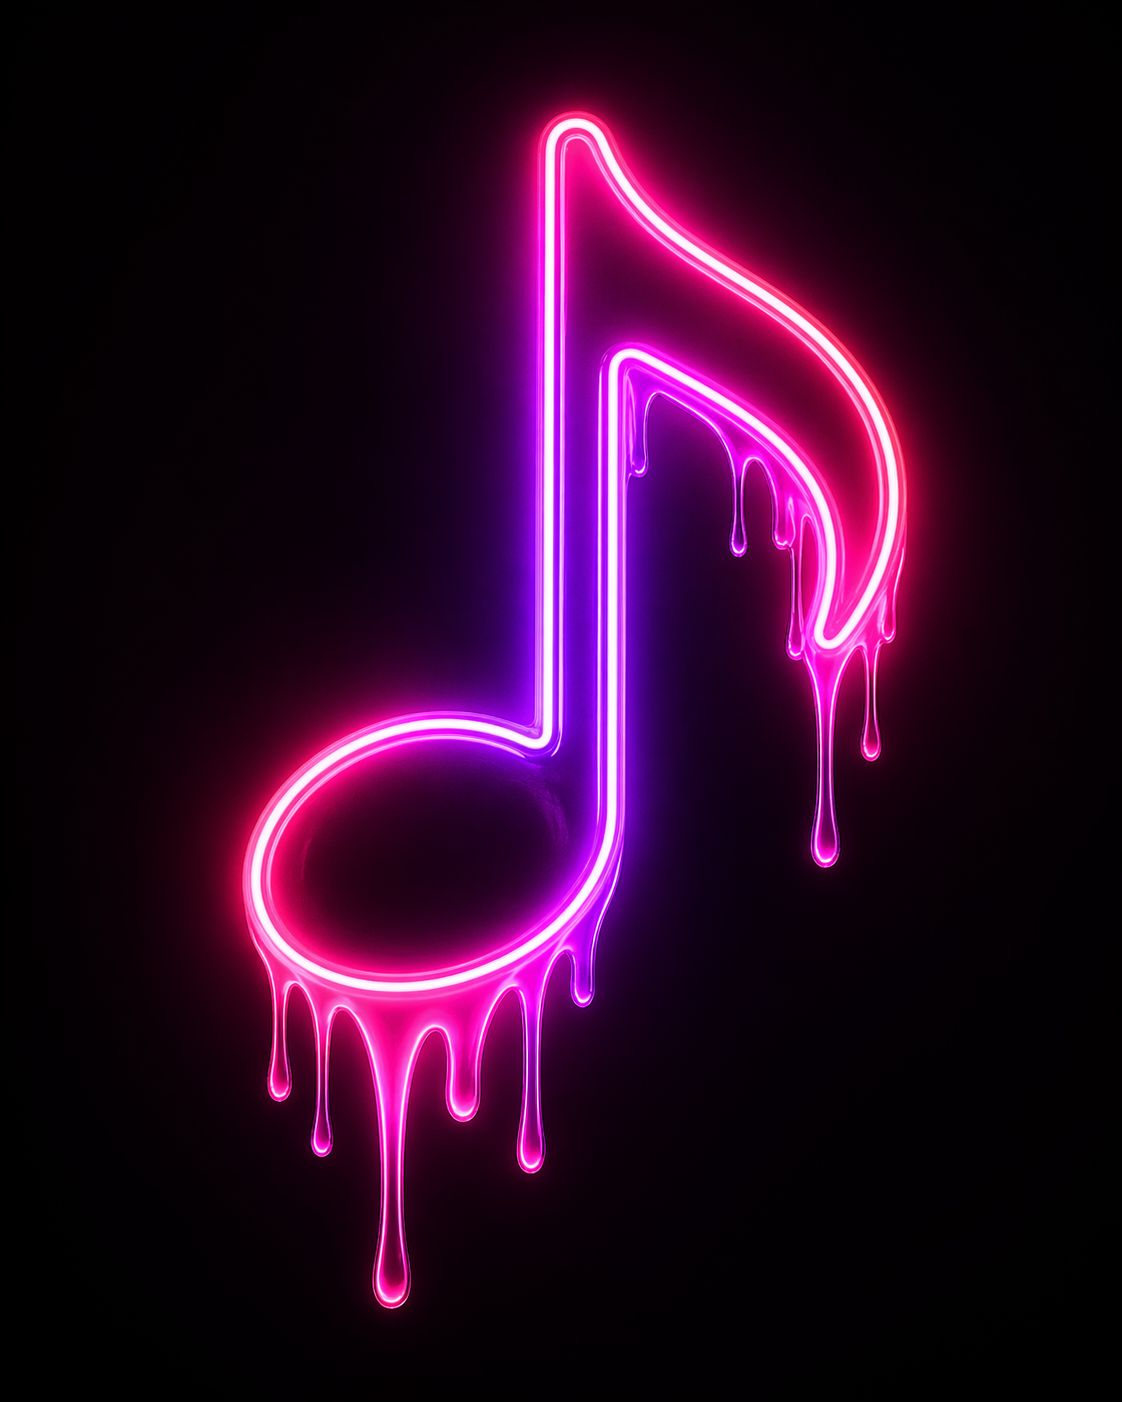
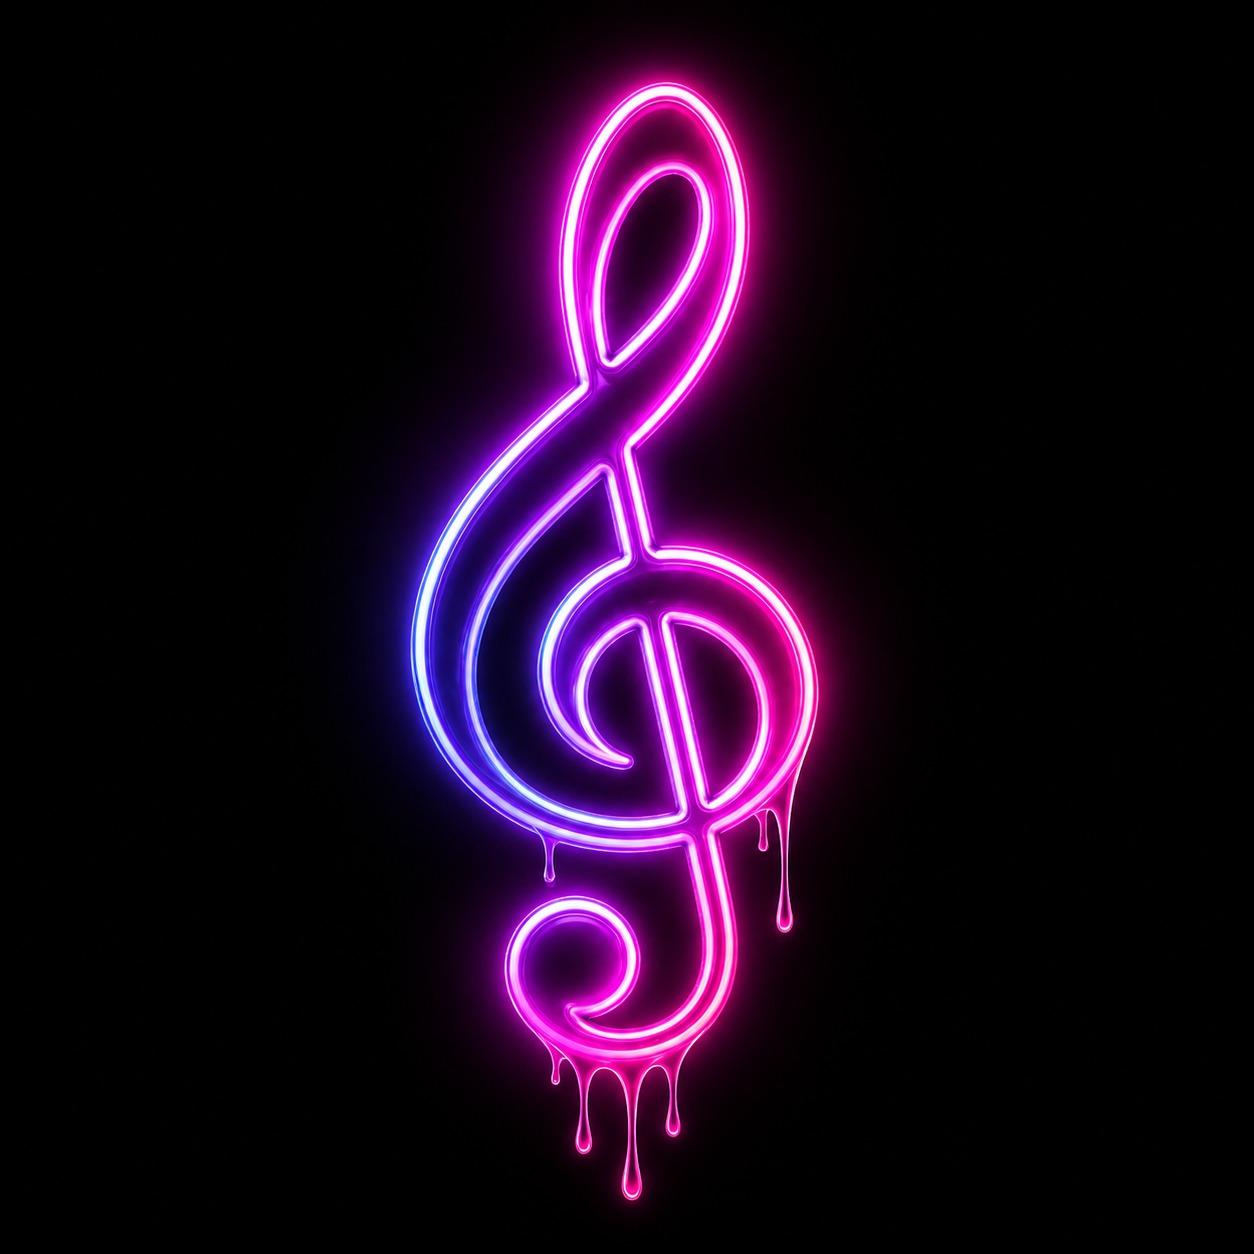
Clarify host flow and add visible build version

diff --git a/js/ui.js b/js/ui.js
@@ -9,6 +9,8 @@ function renderLobby() {
     panel.classList.toggle('hidden', !(estadoSala === FASES.LOBBY || estadoSala === FASES.LISTA));
     btnComenzar.classList.toggle('hidden', !(esHost && estadoSala === FASES.LOBBY));
     btnIniciar.classList.toggle('hidden', !(esHost && estadoSala === FASES.LISTA));
+    btnComenzar.innerText = t('actions.lockRoom');
+    btnIniciar.innerText = t('actions.startFirstRound');
     btnComenzar.disabled = totalJugadores() < 1;
     btnIniciar.disabled = totalJugadores() < 1;
     if (playersValue) playersValue.innerText = `${totalJugadores()}/${MAX_JUGADORES}`;
@@ -56,7 +58,8 @@ function renderHostControls() {
     const puedeSiguiente = esHost && enPartida && (fase === FASES.REVELANDO || fase === FASES.RESULTADO) && !estadoCache.ganador;
     const esperaEleccion = puedeRevelar && !estadoCache.seleccion_turno;
 
-    btnSiguiente.innerText = t('actions.nextSong');
+    btnRevelar.innerText = t('actions.revealCard');
+    btnSiguiente.innerText = t('actions.nextRound');
     panel.classList.toggle('hidden', !(puedeRevelar || puedeSiguiente));
     playReveal.classList.toggle('hidden', !puedeRevelar);
     btnEscuchar.classList.toggle('hidden', !puedeRevelar);
@@ -417,6 +420,24 @@ function setPhaseCue(msg) {
     if (el) el.innerText = msg || '';
 }
 
+function setNextActionCue(msg) {
+    const el = document.getElementById('next-action-cue');
+    if (!el) return;
+    el.innerHTML = '';
+    el.classList.toggle('hidden', !msg);
+    if (!msg) return;
+
+    const label = document.createElement('span');
+    label.className = 'next-action-label';
+    label.textContent = t('status.nextActionLabel');
+
+    const copy = document.createElement('strong');
+    copy.textContent = msg;
+
+    el.appendChild(label);
+    el.appendChild(copy);
+}
+
 function focusRevealMovil(e, panel) {
     if (!panel || !e?.revelar) return;
     const esPantallaMovil = !window.matchMedia || window.matchMedia('(max-width: 760px)').matches;
@@ -544,6 +565,7 @@ function renderEstado() {
     const zonaPasarTurno = document.getElementById('zona-pasar-turno');
     const estadoSala = salaMetaCache.estado_sala || FASES.LOBBY;
     setEstadoVisualJuego(estadoVisualJuego(fase, estadoSala, e, miEntidad, turnoEntidad, esMiTurnoEntidad, esJugadorActivo));
+    setNextActionCue('');
 
     zonaPos.classList.add('hidden');
     zonaRobo.classList.add('hidden');
@@ -556,6 +578,7 @@ function renderEstado() {
     if (estadoSala === FASES.LOBBY) {
         updateStatus(t('status.waitingStart'));
         setPhaseCue(t('status.cueLobby'));
+        setNextActionCue(esHost ? t('status.nextActionHostLockRoom') : t('status.nextActionGuestWaitHost'));
         setEleccion('');
         extra.innerText = t('status.playersCanJoin');
         return;
@@ -563,6 +586,7 @@ function renderEstado() {
     if (estadoSala === FASES.LISTA) {
         updateStatus(esHost ? t('status.hostStart') : t('status.waitingHostStart'));
         setPhaseCue(esHost ? t('status.cueLobbyReadyHost') : t('status.cueLobbyReadyGuest'));
+        setNextActionCue(esHost ? t('status.nextActionHostStartGame') : t('status.nextActionGuestWaitHost'));
         setEleccion('');
         extra.innerText = t('status.roomClosed');
         return;
@@ -574,6 +598,7 @@ function renderEstado() {
     if (fase === FASES.PRE_RONDA) {
         updateStatus(esMiTurnoEntidad ? (miEntidad?.type === 'team' ? t('status.prepareTeamTurn') : t('status.prepareTurn')) : t('status.prepareNextSong'));
         setPhaseCue(esMiTurnoEntidad ? t('status.cueYourTurn') : t('status.cueOtherTurn'));
+        setNextActionCue(esMiTurnoEntidad ? t('status.nextActionPlaceCard') : t('status.nextActionWaitTurn'));
         extra.innerText = t('status.songStarting');
     }
 
@@ -581,6 +606,7 @@ function renderEstado() {
         if (esMiTurnoEntidad && esJugadorActivo) {
             updateStatus(e.seleccion_turno ? t('status.choiceSaved') : (miEntidad?.type === 'team' ? t('status.yourTeamTurn') : t('status.yourTurn')));
             setPhaseCue(e.seleccion_turno && puedeBonusMoneda() ? t('status.cueGuessBonus') : t('status.cueYourTurn'));
+            setNextActionCue(e.seleccion_turno && puedeBonusMoneda() ? t('status.nextActionGuessBonus') : t('status.nextActionPlaceCard'));
             extra.innerText = e.seleccion_turno ? t('status.othersCanSteal') : t('status.placeBeforeReveal');
             dibujarL(miL, { modo: 'turno', disabled: !!e.seleccion_turno });
             if (!e.revelar && puedeBonusMoneda()) syncAutoGuessUi(e);
@@ -590,10 +616,12 @@ function renderEstado() {
         } else if (esMiTurnoEntidad) {
             updateStatus(t('status.teamTurnBy', { team: e.nombre_entidad_turno || '', player: e.nombre_turno || '' }));
             setPhaseCue(t('status.cueTeammateTurn'));
+            setNextActionCue(t('status.nextActionWaitTurn'));
             extra.innerText = t('status.waitTeammateChoice');
         } else {
             updateStatus(t('status.turnOf', { name: e.nombre_entidad_turno || e.nombre_turno || '' }));
             setPhaseCue(t('status.cueOtherTurn'));
+            setNextActionCue(esHost ? t('status.nextActionHostReveal') : t('status.nextActionWaitTurn'));
             extra.innerText = e.seleccion_turno ? t('status.waitStealPhase') : t('status.waitPlayerChoice');
         }
     }
@@ -602,10 +630,12 @@ function renderEstado() {
         if (esSolitario()) {
             updateStatus(t('status.preparingReveal'));
             setPhaseCue(t('status.cueRevealGuest'));
+            setNextActionCue(esHost ? t('status.nextActionHostReveal') : t('status.nextActionReview'));
             extra.innerText = '';
         } else if (esMiTurnoEntidad) {
             updateStatus(esJugadorActivo ? t('status.turnRegistered') : t('status.entityTurnLocked', { player: e.nombre_turno || '' }));
             setPhaseCue(esJugadorActivo && puedeBonusMoneda() ? t('status.cueGuessBonus') : t('status.cueTeammateTurn'));
+            setNextActionCue(esJugadorActivo && puedeBonusMoneda() ? t('status.nextActionGuessBonus') : t('status.nextActionWaitTurn'));
             extra.innerText = t('status.othersDecideSteal');
             if (esJugadorActivo && !e.revelar && puedeBonusMoneda()) syncAutoGuessUi(e);
         } else if (miEntidad) {
@@ -614,26 +644,31 @@ function renderEstado() {
             if (miRobo?.slot || miRobo?.label) {
                 updateStatus(t('status.yourSteal', { label: roboLabel }));
                 setPhaseCue(t('status.cueStealPick'));
+                setNextActionCue(esHost ? t('status.nextActionHostReveal') : t('status.nextActionReview'));
                 extra.innerText = t('status.stealSaved');
                 zonaCancelarRobo.classList.remove('hidden');
             } else if (miRobo?.pagado) {
                 updateStatus(t('status.chooseSteal'));
                 setPhaseCue(t('status.cueStealPick'));
+                setNextActionCue(t('status.nextActionChooseSteal'));
                 extra.innerText = t('status.avoidTurnSlot');
                 zonaCancelarRobo.classList.remove('hidden');
                 dibujarL(lineaReferenciaEntidad(turnoEntidad?.data || {}), { modo: 'robo', bloqueadoIdx: e.seleccion_turno?.idx });
             } else if (!lineaReferenciaEntidad(turnoEntidad?.data || {}).length) {
                 updateStatus(t('status.noStealAvailable'));
                 setPhaseCue(t('status.cueOtherTurn'));
+                setNextActionCue(t('status.nextActionWaitTurn'));
                 extra.innerText = t('status.noBaseToSteal');
             } else if (misT >= 1) {
                 updateStatus(t('status.wantSteal'));
                 setPhaseCue(t('status.cueStealOffer'));
+                setNextActionCue(t('status.nextActionSteal'));
                 extra.innerText = seleccionTurnoLabel ? t('status.chose', { label: seleccionTurnoLabel }) : '';
                 zonaRobo.classList.remove('hidden');
             } else {
                 updateStatus(t('status.noTokensSteal'));
                 setPhaseCue(t('status.cueOtherTurn'));
+                setNextActionCue(t('status.nextActionWaitTurn'));
                 extra.innerText = t('status.needToken');
             }
         }
@@ -649,6 +684,7 @@ function renderEstado() {
         if (fase !== FASES.FINAL) {
             updateStatus(resumenResultado || t('status.revealingSong'));
             setPhaseCue(esHost ? t('status.cueRevealHost') : t('status.cueRevealGuest'));
+            setNextActionCue(esHost ? t('status.nextActionHostNext') : t('status.nextActionReview'));
             extra.innerText = resumenVotos ? `${resumenVotos}${esHost ? ' / ' + t('status.pressNext') : ''}` : (esHost ? t('status.pressNext') : t('status.waitingNext'));
         }
     }
@@ -661,6 +697,7 @@ function renderEstado() {
         renderFinalSummary();
         updateStatus(finalText);
         setPhaseCue(sinCanciones ? (esHost ? t('status.noSongsHost') : t('status.noSongsGuest')) : (esHost ? t('status.cueFinalHost') : t('status.cueFinalGuest')));
+        setNextActionCue(esHost ? t('status.cueFinalHost') : t('status.cueFinalGuest'));
         extra.innerText = sinCanciones ? (esHost ? t('status.noSongsHost') : t('status.noSongsGuest')) : t('status.hostReplay');
         document.getElementById('btn-replay').classList.toggle('hidden', !esHost);
         if (!sinCanciones && e.ganador) lanzarConfetiGanador(e.ganador, `${e.ronda_id || ''}:${e.ganador}`, 'mobile');

diff --git a/js/config.js b/js/config.js
@@ -262,6 +262,10 @@ function estadoJuegoBase(fase = FASES.LOBBY) {
         copyCode: 'Copiar c\u00f3digo',
         copyLink: 'Copiar enlace',
         copyTvLink: 'Enlace TV',
+        lockRoom: 'Cerrar sala',
+        startFirstRound: 'Iniciar primera canci\u00f3n',
+        revealCard: 'Revelar carta',
+        nextRound: 'Siguiente ronda',
         createTeam: 'Crear equipo',
         joinTeam: 'Unirme',
         leaveTeam: 'Salir del equipo',
@@ -272,6 +276,10 @@ function estadoJuegoBase(fase = FASES.LOBBY) {
         copyCode: 'Copy code',
         copyLink: 'Copy link',
         copyTvLink: 'TV link',
+        lockRoom: 'Lock room',
+        startFirstRound: 'Start first song',
+        revealCard: 'Reveal card',
+        nextRound: 'Next round',
         createTeam: 'Create team',
         joinTeam: 'Join',
         leaveTeam: 'Leave team',
@@ -482,8 +490,9 @@ function estadoJuegoBase(fase = FASES.LOBBY) {
         turnOfTeam: 'Turno de {team}.',
         yourTeamSteal: 'Tu robo: {label}',
         turnPassed: 'Ahora juega {player}.',
+        hostStart: 'Presiona Iniciar primera canci\u00f3n para empezar.',
         cueLobby: 'Juega solo o comparte el c\u00f3digo',
-        cueLobbyReadyHost: 'Host: toca Iniciar partida',
+        cueLobbyReadyHost: 'Host: toca Iniciar primera canci\u00f3n',
         cueLobbyReadyGuest: 'Espera a que el host inicie',
         cueYourTurn: 'Escucha y elige d\u00f3nde va',
         cueTeammateTurn: 'Tu compa\u00f1ero est\u00e1 jugando',
@@ -495,6 +504,18 @@ function estadoJuegoBase(fase = FASES.LOBBY) {
         cueRevealGuest: 'Revisa qui\u00e9n gan\u00f3 la carta',
         cueFinalHost: 'Host: toca Volver a jugar',
         cueFinalGuest: 'Partida terminada',
+        nextActionLabel: 'Siguiente',
+        nextActionHostLockRoom: 'Cierra la sala cuando ya est\u00e9n listos.',
+        nextActionHostStartGame: 'Inicia la primera canci\u00f3n.',
+        nextActionGuestWaitHost: 'Espera a que el host avance.',
+        nextActionPlaceCard: 'Elige una posici\u00f3n en tu l\u00ednea.',
+        nextActionGuessBonus: 'Puedes intentar el bonus de moneda.',
+        nextActionWaitTurn: 'Mira el turno y espera tu momento.',
+        nextActionSteal: 'Decide si gastas 1 moneda para robar.',
+        nextActionChooseSteal: 'Elige d\u00f3nde colocar tu robo.',
+        nextActionHostReveal: 'Revela cuando la jugada est\u00e9 lista.',
+        nextActionHostNext: 'Avanza a la siguiente ronda.',
+        nextActionReview: 'Revisa el resultado revelado.',
         noSongsFinal: 'No quedan canciones disponibles.',
         noSongsHost: 'No quedan canciones. Puedes volver a jugar o cargar m\u00e1s canciones.',
         noSongsGuest: 'La partida termin\u00f3 porque no quedan canciones.'
@@ -508,8 +529,9 @@ function estadoJuegoBase(fase = FASES.LOBBY) {
         turnOfTeam: "{team}'s turn.",
         yourTeamSteal: 'Your steal: {label}',
         turnPassed: '{player} is up now.',
+        hostStart: 'Tap Start first song to begin.',
         cueLobby: 'Play solo or share the code',
-        cueLobbyReadyHost: 'Host: tap Start game',
+        cueLobbyReadyHost: 'Host: tap Start first song',
         cueLobbyReadyGuest: 'Wait for the host to start',
         cueYourTurn: 'Listen and choose the spot',
         cueTeammateTurn: 'Your teammate is playing',
@@ -521,6 +543,18 @@ function estadoJuegoBase(fase = FASES.LOBBY) {
         cueRevealGuest: 'Check who won the card',
         cueFinalHost: 'Host: tap Play again',
         cueFinalGuest: 'Game over',
+        nextActionLabel: 'Next',
+        nextActionHostLockRoom: 'Lock the room when everyone is ready.',
+        nextActionHostStartGame: 'Start the first song.',
+        nextActionGuestWaitHost: 'Wait for the host to move forward.',
+        nextActionPlaceCard: 'Choose a position on your timeline.',
+        nextActionGuessBonus: 'You can try the coin bonus.',
+        nextActionWaitTurn: 'Watch the turn and wait for your moment.',
+        nextActionSteal: 'Decide whether to spend 1 coin to steal.',
+        nextActionChooseSteal: 'Choose where to place your steal.',
+        nextActionHostReveal: 'Reveal when the play is ready.',
+        nextActionHostNext: 'Move to the next round.',
+        nextActionReview: 'Review the revealed result.',
         noSongsFinal: 'No songs are available.',
         noSongsHost: 'No songs left. You can play again or load more songs.',
         noSongsGuest: 'The game ended because there are no songs left.'

diff --git a/styles.css b/styles.css
@@ -841,6 +841,29 @@ body {
             box-sizing: border-box;
             text-align: left;
         }
+        .debug-version {
+            position: fixed;
+            right: 10px;
+            bottom: 10px;
+            z-index: 80;
+            width: auto;
+            max-width: calc(100vw - 20px);
+            margin: 0;
+            padding: 5px 9px;
+            border-radius: 999px;
+            background: rgba(0,0,0,0.58);
+            border: 1px solid rgba(255,255,255,0.18);
+            color: rgba(255,255,255,0.78);
+            font-size: 0.72rem;
+            font-weight: 800;
+            text-align: center;
+            letter-spacing: 0.02em;
+            box-shadow: 0 8px 22px rgba(0,0,0,0.28);
+            backdrop-filter: blur(10px);
+            -webkit-backdrop-filter: blur(10px);
+            user-select: none;
+            pointer-events: none;
+        }
         .host-badge {
             display: inline-block;
             background: #FFD700;
@@ -887,6 +910,45 @@ body {
         #app[data-state='final'] .phase-cue {
             background: rgba(255,215,0,0.12);
             border-color: rgba(255,215,0,0.22);
+        }
+        .next-action-cue {
+            display: grid;
+            grid-template-columns: auto 1fr;
+            align-items: center;
+            gap: 9px;
+            margin-top: 8px;
+            padding: 10px 11px;
+            border-radius: 14px;
+            background: rgba(255,255,255,0.1);
+            border: 1px solid rgba(255,255,255,0.14);
+            color: white;
+            text-align: left;
+            line-height: 1.2;
+            box-shadow: inset 0 1px 0 rgba(255,255,255,0.08);
+        }
+        .next-action-cue.hidden {
+            display: none;
+        }
+        .next-action-label {
+            display: inline-flex;
+            align-items: center;
+            justify-content: center;
+            min-height: 24px;
+            padding: 0 8px;
+            border-radius: 999px;
+            background: rgba(var(--state-rgb, 255,215,0), 0.18);
+            border: 1px solid rgba(var(--state-rgb, 255,215,0), 0.3);
+            color: rgba(255,255,255,0.86);
+            font-size: 0.62rem;
+            font-weight: 900;
+            text-transform: uppercase;
+            white-space: nowrap;
+        }
+        .next-action-cue strong {
+            min-width: 0;
+            color: rgba(255,255,255,0.96);
+            font-size: 0.84rem;
+            font-weight: 900;
         }
         .final-summary {
             display: flex;

diff --git a/index.html b/index.html
@@ -13,7 +13,7 @@
     <script src="locales/i18n.js?v=20260517t"></script>
     <link href="https://fonts.googleapis.com/css2?family=Inter:wght@400;700;900&display=swap" rel="stylesheet">
     <link rel="preload" as="image" href="assets/testcover.jpeg">
-    <link rel="stylesheet" href="styles.css?v=20260517t">
+    <link rel="stylesheet" href="styles.css?v=20260528b">
 </head>
 <body>
     <div id="spotify-stage" class="spotify-stage" aria-hidden="true">
@@ -155,6 +155,7 @@
             </div>
             <div id="status-msg" style="font-size:1rem; color:#FFD700; font-weight:900; margin-top:10px;" data-i18n="game.waiting">Esperando...</div>
             <div id="phase-cue" class="phase-cue"></div>
+            <div id="next-action-cue" class="next-action-cue hidden"></div>
             <div id="eleccionV" class="muted" style="margin-top:8px;"></div>
         </div>
 
@@ -211,12 +212,13 @@
             <div id="spotify-msg" class="muted" style="margin-top:6px;" data-i18n="audio.initial">Spotify se activará al iniciar la partida.</div>
         </div>
     </div>
-    <script src="js/config.js?v=20260517t"></script>
+    <div class="debug-version">ver. 2026.05.28a</div>
+    <script src="js/config.js?v=20260528b"></script>
     <script src="js/helpers.js?v=20260517t"></script>
     <script src="js/tutorial.js?v=20260517t"></script>
     <script src="js/spotify.js?v=20260517t"></script>
     <script src="js/rooms.js?v=20260517t"></script>
-    <script src="js/ui.js?v=20260517t"></script>
+    <script src="js/ui.js?v=20260528b"></script>
     <script src="js/gameplay.js?v=20260517t"></script>
 </body>
 </html>

diff --git a/tv.html b/tv.html
@@ -10,7 +10,7 @@
     <script src="canciones.js?v=20260517t"></script>
     <script src="locales/i18n.js?v=20260517t"></script>
     <link href="https://fonts.googleapis.com/css2?family=Inter:wght@400;700;900&display=swap" rel="stylesheet">
-    <link rel="stylesheet" href="tv.css?v=20260517t">
+    <link rel="stylesheet" href="tv.css?v=20260528a">
 </head>
 <body>
     <div id="tv-audio-stage" class="tv-audio-stage" aria-hidden="true">
@@ -95,6 +95,7 @@
                 <div id="tv-score-list" class="tv-score-list"></div>
             </aside>
         </main>
+        <div class="tv-debug-version">ver. 2026.05.28a</div>
     </div>
 
     <script src="js/config.js?v=20260517t"></script>

diff --git a/tv.css b/tv.css
@@ -161,6 +161,17 @@ input {
     overflow: hidden;
 }
 
+.tv-debug-version {
+    width: min(1440px, calc(100vw - 48px));
+    margin: 8px auto 0;
+    color: rgba(255,255,255,0.3);
+    font-size: clamp(0.7rem, 1vw, 0.9rem);
+    font-weight: 800;
+    letter-spacing: 0.03em;
+    text-align: right;
+    user-select: none;
+}
+
 .tv-setup {
     height: 100vh;
     display: flex;
